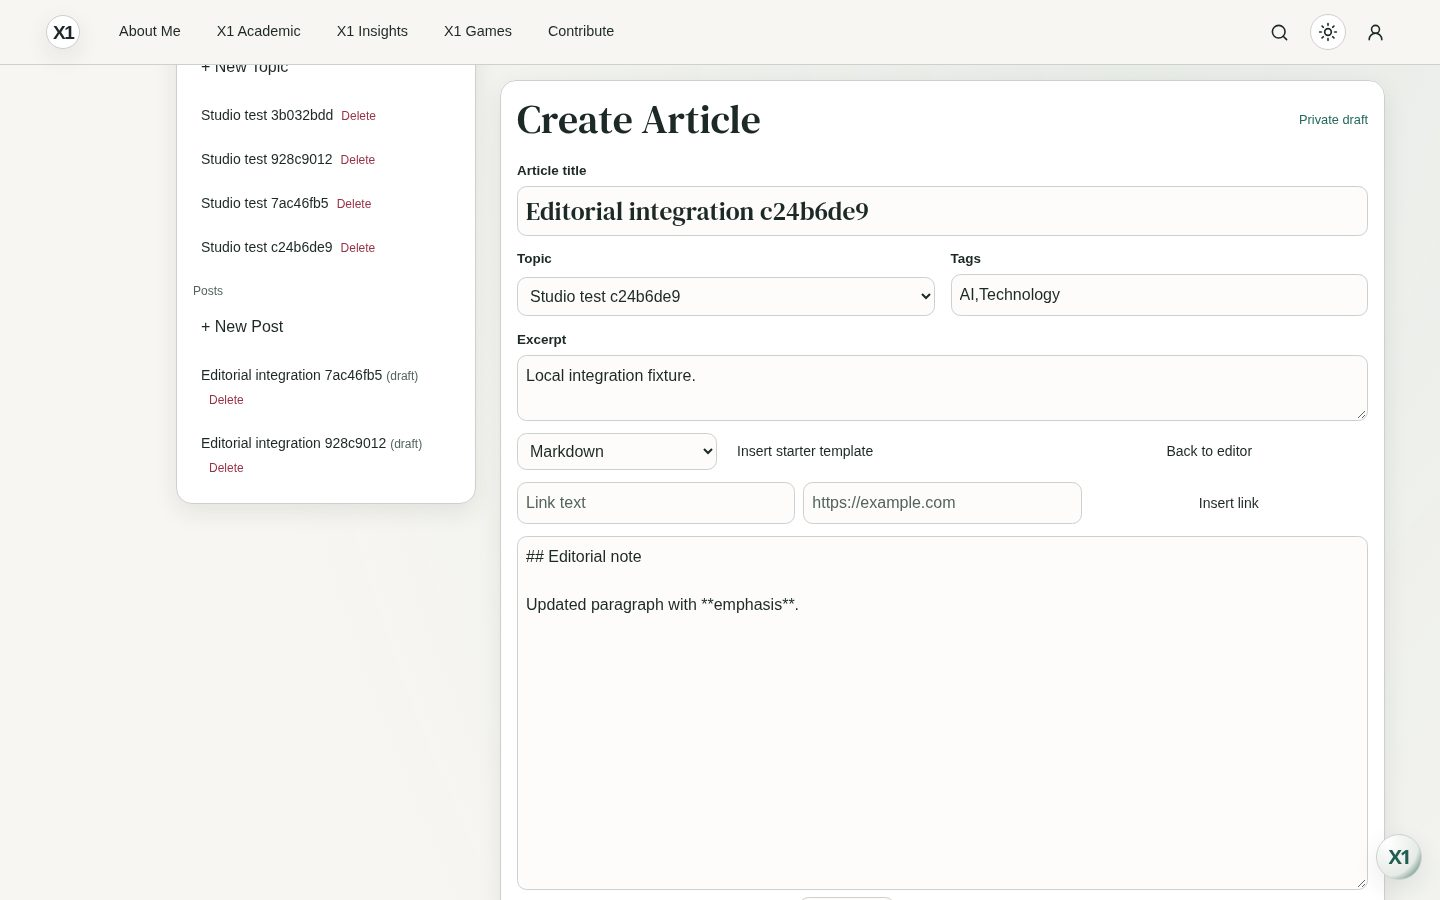
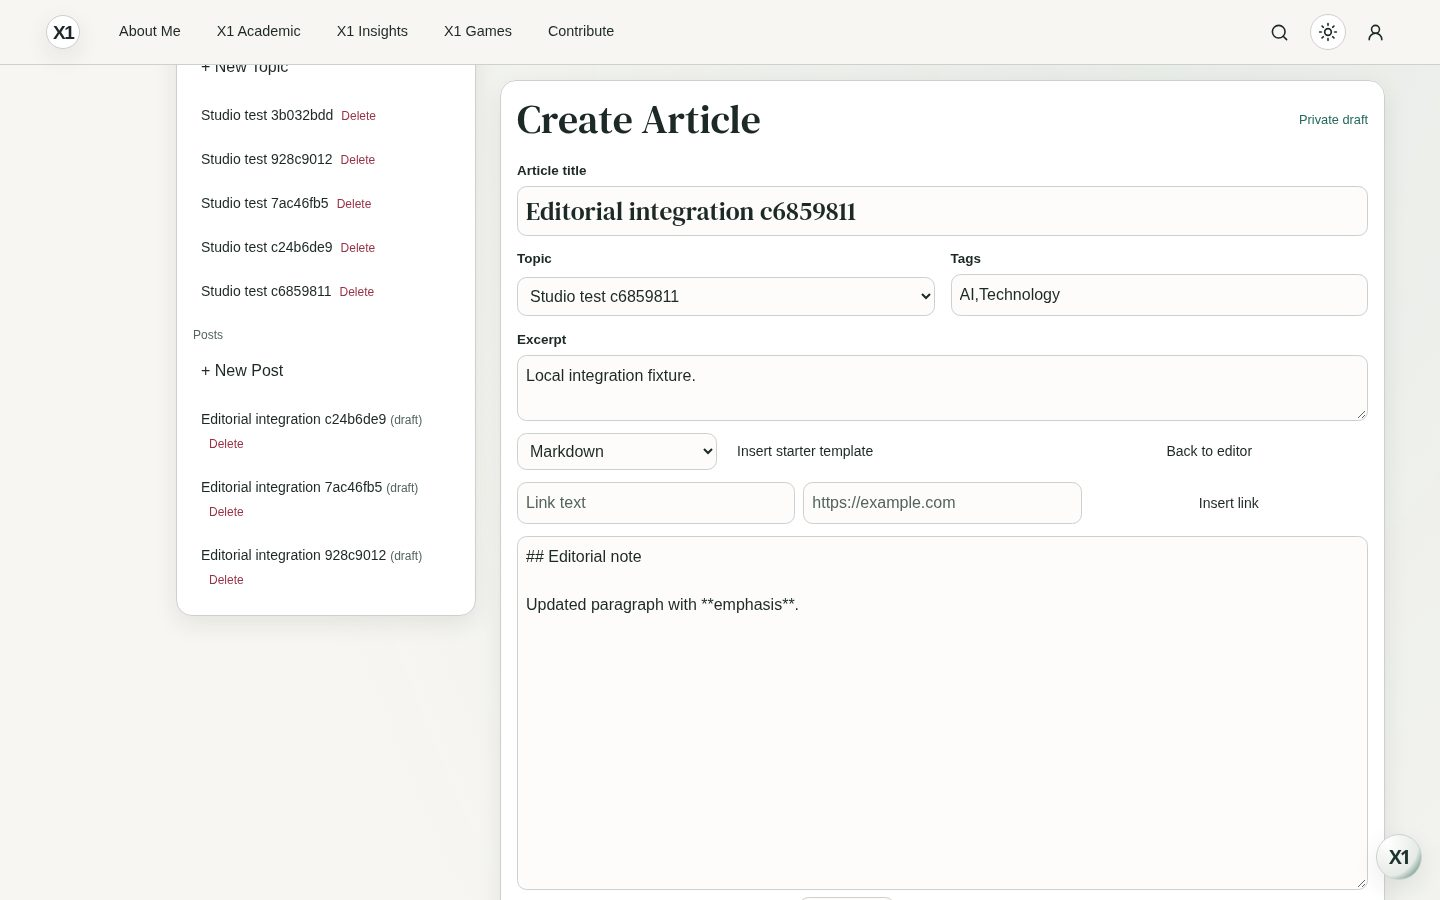
Document browser benchmarks, visual evidence and release-build publishing tests

diff --git a/docs/elite-review/README.md b/docs/elite-review/README.md
@@ -9,10 +9,34 @@ The comparison starts at `bdd361d`, the revision that merged the approved X1 Dig
 | Theme comparison | [Eight homepage captures](themes.jpg) |
 | Exact theme tokens | [Computed values across Home, Insights, Academic and About](themes.json) |
 | Original homepage | [Desktop](before-1440.jpg) · [Mobile](before-390.jpg) |
+| Updated homepage | [Desktop](after-1440.jpg) · [Mobile](after-390.jpg) |
+| Route-aware guidance | [Home orb](guide-home.jpg) · [Insights astronaut](guide-insights.jpg) · [Arcade Phantom](guide-arcade.jpg) |
+| Authenticated publishing | [Studio using test records](studio.jpg) · [Supabase integration results](owner-local.json) |
 
 The theme check visits every section after a fresh navigation and decodes all three destination images. The browser suite also checks theme persistence, legacy theme migration, keyboard selection, contrast, responsive layouts and reduced motion. The new illustrations use resized versions of the existing approved art with local lighting, edge shading and palette-dependent highlights.
 
 The launcher uses the X1 mark on Home, a helmeted astronaut on Insights and the Phantom in Arcade. Game selection and outcome events change the Phantom's expression. The guide opens inside the active game dialog when needed. Queries search public articles and navigation metadata on demand. The Arcade additions and their rights are documented in the [game review](GAMES.md).
+
+## Browser measurements
+
+The same Chromium 156.0.8078.79 opened each of six routes three times in fresh contexts at 1440 × 900 and 390 × 844. Both runs used a local static server, native browser scheduling, the public fallback catalogue and an unthrottled connection. Each visit opened the contextual guide after first paint. The table reports median LCP, maximum CLS and median resource transfer size through that interaction. [Baseline samples](before.json) · [Release samples](after.json) · [Runner](../../scripts/review-elite.mjs)
+
+| Route | Desktop LCP before → after | Mobile LCP before → after | Mobile CLS before → after | Mobile transfer before → after |
+| --- | ---: | ---: | ---: | ---: |
+| Home | 0.55 s → 1.13 s | 0.59 s → 0.58 s | 0.003 → 0.003 | 674 KiB → 409 KiB |
+| Insights | 0.68 s → 0.95 s | 0.50 s → 0.55 s | 0.120 → 0.001 | 734 KiB → 612 KiB |
+| Academic | 0.55 s → 0.58 s | 0.51 s → 0.52 s | 0.000 → 0.000 | 837 KiB → 701 KiB |
+| Arcade | 0.80 s → 0.81 s | 0.60 s → 0.65 s | 0.000 → 0.000 | 776 KiB → 650 KiB |
+| About | 0.57 s → 0.71 s | 0.59 s → 0.65 s | 0.000 → 0.000 | 474 KiB → 339 KiB |
+| Login | 0.42 s → 0.44 s | 0.38 s → 0.35 s | 0.000 → 0.000 | 460 KiB → 326 KiB |
+
+The largest observed LCP across all 36 after-change visits was 1.40 s. The largest recorded layout shift total was 0.003. Opening the guide produced a maximum recorded Event Timing duration of 160 ms. An earlier run while the local service stack was starting recorded a 440 ms About guide interaction. These synthetic interactions do not establish field INP, mobile-network LCP or sustained FPS on physical Android devices. Navigation uses a 720 ms transition with an immediate reduced-motion path.
+
+Desktop homepage median LCP increased by 0.58 s over these samples, even as transfer size fell.
+
+The homepage JavaScript entry fell from 364.39 to 220.54 kB before compression and from 115.76 to 72.50 kB gzipped. The optional Excel import still loads a 940.17 kB chunk, or 271.30 kB gzipped, when the workspace needs it. The browser transfer figures above include other route resources and use the static fixture's uncompressed HTTP responses.
+
+The authenticated studio was measured in a separate release build against local Supabase. A single run took 1,727 ms from TOTP verification to the studio, 520 ms from saving to verified draft confirmation and 388 ms from publishing to public read-back. The earlier owner workflow used a different authentication flow, so there is no comparable authenticated baseline. [Studio measurements](owner-local.json)
 
 ## Publishing and security
 
@@ -23,6 +47,15 @@ The launcher uses the X1 mark on Home, a helmeted astronaut on Insights and the 
 - The editor keeps recovery data in the owner's browser tab, clears it on explicit logout and compares the last saved revision before updating. Retried submissions reuse their article ID. Published visibility is checked using a separate anonymous request. The public contribution form continues to prepare a submission for review.
 - Authentication uses explicit bearer headers. Private session and media requests go to the configured Supabase origin. GitHub Pages serves static content. Each built HTML page receives a document CSP with hashed inline scripts and a restricted connection policy. The host controls HTTP-only protections such as frame ancestors and HSTS. HTTPS article frames/images and inline CSS remain permitted for existing content.
 - The dependency audit on the baseline reported two moderate findings. After the router update npm reported zero known vulnerabilities in the locked tree. npm's advisory database and this review cover different aspects of security.
+
+## Verification
+
+- The production build includes 59 prerendered Academic routes. The repository's lint command runs TypeScript build checks. All 12 Node unit and contract test files passed, including the PostgreSQL policy checks.
+- The browser suite covers Academic workspaces, data import and export, lessons, deep links, article search, submission, responsive layouts, accessibility, game controls and the three assistants. CI runs the same scenarios in Chromium, Firefox and WebKit. [Pull-request checks](https://github.com/arharif/arharif.github.io/pull/124/checks)
+- Owner verification uses an isolated copy of Supabase Auth, PostgreSQL, PostgREST, Storage and the Edge Runtime with throwaway identities. The production owner account and existing blog records are outside this fixture. The test submits a real authenticator code on enrollment and a fresh code on a second login. It verifies anonymous article and image access before and after publication and withdrawal. [Integration script](../../scripts/verify-owner-local.mjs)
+- The external publisher link check could not verify 39 URLs from the restricted runner. The academic routes, link destinations and internal navigation were covered by browser tests. CI retains a separate publisher reachability artifact.
+
+To reproduce the owner check, use a disposable local Supabase CLI workspace with project ID `x1-local-supabase`, local email confirmation disabled and TOTP enrollment and verification enabled. Run the `editorial-upload` function from this repository in that stack. With the local anonymous key in `X1_TEST_ANON`, run `node scripts/verify-owner-local.mjs` from the repository. This creates two local users, applies the schema with one local UUID and tests the production bundle. The fixture expects the local API on port 54321 and uses port 4177 for the browser preview.
 
 ## Releasing to the existing Supabase project
 
